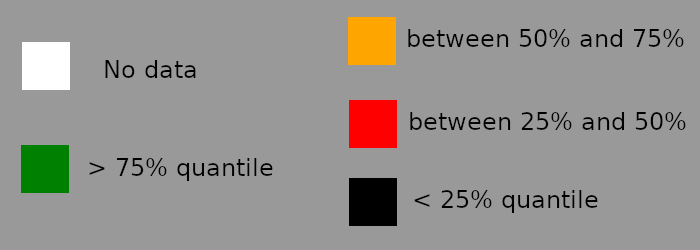
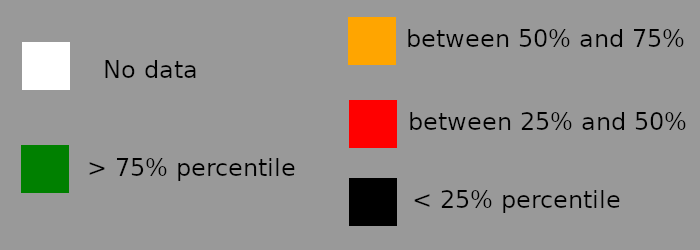
Implemented user input of time. Changed legend.png. Added example_map.png. Wrote README.md

Changed region(s): [[0.24, 0.616, 0.42, 0.728], [0.72, 0.756, 0.9, 0.84]]

diff --git a/main.py b/main.py
@@ -8,6 +8,7 @@ In order to run user interface of the project, run this module.
 import math
 from typing import Tuple, List
 import time
+import re
 
 import folium
 from folium.plugins import FloatImage
@@ -84,15 +85,12 @@ def get_coords_from_address(geocoder: Nominatim, address: str) -> Tuple[float, f
     return None
 
 
-def get_ten_closest(data: pd.DataFrame, coords) -> List[Tuple[str, Tuple[float, float]]]:
+def get_ten_closest(data: pd.DataFrame, coords, max_wait: float) -> List[Tuple[str, Tuple[float, float]]]:
     """
     Return 10 films with closest location to the specified location.
     """
 
     data = data.sample(frac=1)
-
-    # time to wait in seconds
-    max_wait = 180
 
     coords_dict = {}
 
@@ -128,7 +126,7 @@ def get_ten_closest(data: pd.DataFrame, coords) -> List[Tuple[str, Tuple[float, 
     return list(map(lambda x: x[1], films))[:10]
 
 
-def generate_map(year: int, lat: float, lon: float) -> str:
+def generate_map(year: int, lat: float, lon: float, max_wait: float) -> str:
     """
     Generate a map containing 10 closest locations of films shot in a given year to the specified
     location given by lat (lattitule) and lon (longitude). Save the map to html file. Return the
@@ -141,12 +139,17 @@ def generate_map(year: int, lat: float, lon: float) -> str:
     fol_map = folium.Map(location=[lat, lon], zoom_start=10)
     fg_ten_closest = folium.FeatureGroup(name="10 closest locations of films")
 
-    ten_closest = get_ten_closest(data, (lat, lon))
+    ten_closest = get_ten_closest(data, (lat, lon), max_wait)
     # print('ten_closest:')
     # print(*ten_closest, sep='\n')
 
+    fg_ten_closest.add_child(folium.Marker(location=[lat, lon], popup='This is your location',
+                                            icon=folium.Icon()))
+
     for film in ten_closest:
-        fg_ten_closest.add_child(folium.Marker(location=film[1], popup=film[0]))
+        fg_ten_closest.add_child(folium.CircleMarker(location=film[1], popup=film[0],
+                                                    color='magenta', fillColor='white',
+                                                    fillOpacity=0.5, icon=folium.Icon()))
 
     fol_map.add_child(create_additional_layer('./world.json', './legend.png', 'https://hub.jovian.ml/wp-content/uploads/2020/09/countries.csv'))
     fol_map.add_child(fg_ten_closest)
@@ -178,20 +181,20 @@ def create_additional_layer(path_geojson: str, path_to_leg: str, url_to_gdp_info
     def style_func(x):
         name = x['properties']['NAME']
 
-        quantile_25 = data['gdp_per_capita'].quantile(0.25)
-        quantile_50 = data['gdp_per_capita'].quantile(0.5)
-        quantile_75 = data['gdp_per_capita'].quantile(0.75)
+        percentile_25 = data['gdp_per_capita'].quantile(0.25)
+        percentile_50 = data['gdp_per_capita'].quantile(0.5)
+        percentile_75 = data['gdp_per_capita'].quantile(0.75)
 
         try:
             cur_gdp = data.loc[name, 'gdp_per_capita']
         except KeyError:
             return {'fillColor': 'white', 'fillOpacity': 0.7}
 
-        if cur_gdp < quantile_25:
+        if cur_gdp < percentile_25:
             return {'fillColor': 'black', 'fillOpacity': 0.7}
-        elif quantile_25 <= cur_gdp <= quantile_50:
+        elif percentile_25 <= cur_gdp <= percentile_50:
             return {'fillColor': 'red', 'fillOpacity': 0.7}
-        elif quantile_50 < cur_gdp <= quantile_75:
+        elif percentile_50 < cur_gdp <= percentile_75:
             return {'fillColor': 'orange', 'fillOpacity': 0.7}
         else:
             return {'fillColor': 'green', 'fillOpacity': 0.7}
@@ -213,9 +216,15 @@ if __name__ == "__main__":
     location = input("Please enter your location (format: lat, long): ")
     lat, lon = map(float, location.split(','))
 
+    max_wait = input("How much seconds do you want to wait (the more you wait, the better the results are)? ")
+
+    max_wait = max_wait.strip()
+    max_wait = re.sub('(seconds)|s', '', max_wait)
+    max_wait = int(max_wait.strip())
+
     print("Map is generating...")
     print("Please wait...")
 
-    file_name = generate_map(year, lat, lon)
+    file_name = generate_map(year, lat, lon, max_wait)
 
     print(f"Finished. Please have look at the map {file_name}")

diff --git a/README.md b/README.md
@@ -1,2 +1,36 @@
-# 10-closest-films
-The project gives user the opportunity to see 10 films shot in specified year, that are the closest to the user's location.
+# 10 closest films
+"10 closest films" project gives user the opportunity to see 10 films shot in given year, that are the closest to the user's location.
+
+To use provided functionality, clone github repository by running 
+```git clone https://github.com/bogdanmagometa/10-closest-films.git```
+in your terminal, then run main.py file with the following command in the terminal:
+```python main.py```
+
+After running main.py the user is prompted to enter the year, coordinates (lattitude and longitude) and time in seconds for exceution of the program. Given the year and coordinates of the location, the program will generate a map with markers that represent ten closest locations, where films were shot in a given year.
+
+Additionally, the map will have the layer with countries' territories colored. The color, a particular country is filled with, tells whether this particular country's GDP per capita is:
+<ul>
+<li>below 25th percentile (black color)</li>
+<li>between 25th and 50th percentile (red color)</li>
+<li>between 50th and 75th percentile (orange color)</li>
+<li>above 75th percentile. (green color)</li>
+</ul>
+
+## Example of running the program
+```
+$ python main.py
+Please enter a year you would like to have a map for: 2015
+Please enter your location (format: lat, long): 40.6559262,-97.4307811
+How much seconds do you want to wait (the more you wait, the better the results are)? 100
+Map is generating...
+Please wait...
+Finished. Please have look at the map 2015_movies_map.html
+```
+<figure>
+    <img src="./example_map.png" alt="example of map"/>
+    <figcaption style="background-color: green" align="center">Example of map</figcaption>
+</figure>
+
+## HTML file structure
+The generated HTML file has DOCTYPE instruction at the beginning of a file.
+After that there is head, body and script tags. Head element contains some meta information that are not displayed, while contents of body element are displayed. script tag at the end of the file contains code that is excecuted.
